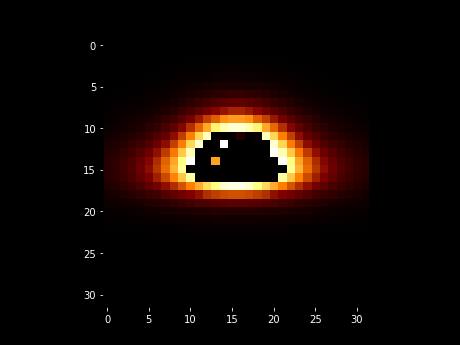
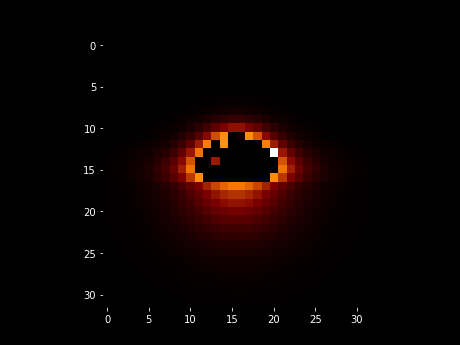
units mass black hole

Changed region(s): [[0.213, 0.2319, 0.8217, 0.7246]]

diff --git a/myconfig.py b/myconfig.py
@@ -10,6 +10,10 @@ Configuration File
 """
 
 import numpy as np
+from astropy import constants as const
+from astropy import units as u
+
+
 
 
 ############## Metric Definition ################
@@ -20,9 +24,11 @@ Metric = "Schwarzschild"
 # "Schwarzschild" metric 
 # "Kerr" metric 
 
-# Parameters in the metric
 
-M = 1. ## Find the units of this mass 
+# Parameters in the metric
+Mb = 1.5 ## Find the units of this mass 
+Gc = const.G*(const.kpc)**-3*const.M_sun*(3.1e-7)**2*u.s**2*(u.kpc**3/(u.M_sun*u.yr**2))
+M = float(2*Mb*(Gc)*(const.c.to(u.kpc/u.yr))**-2*(u.M_sun/u.kpc))
 a = 0.7
 
 ########### Minkowski metric Options ############
@@ -55,7 +61,7 @@ Structure = 3
 
 # Parameters in the Structure
 
-R_out = 12.*M
+R_out = 12*M
 
 corotation = True
 
@@ -76,7 +82,7 @@ ScreenType = 1
 ############## Image Plane Options ##############
 
 # Screen size (in units of M)
-Ssize = 20.*M
+Ssize = 20*M
 
 
 ############# Point Camera Options ##############
@@ -92,7 +98,7 @@ FoV = np.pi/110.
 N = 32
 
 # Distance to the Black hole (in units of M)
-D = 1000.*M
+D = 10*M
 
 # Inclination of the image plane
 i = np.pi/2.5

diff --git a/main.py b/main.py
@@ -4,8 +4,7 @@
 Created on Sun Apr 29 21:00:07 2018
 Main Module
 
-  
-
+  M
 @author: ashcat
 """
 from sys import exit
@@ -101,7 +100,7 @@ for j in range(0,numPixels):
         # Print progress
         perc = perc +1
         
-        print (" ", np.int(perc/(numPixels*numPixels)*100))
+        print (" ", np.int(perc/(numPixels*numPixels)*100.))
 
 
 # Constructs the image data using the accretion structure 
